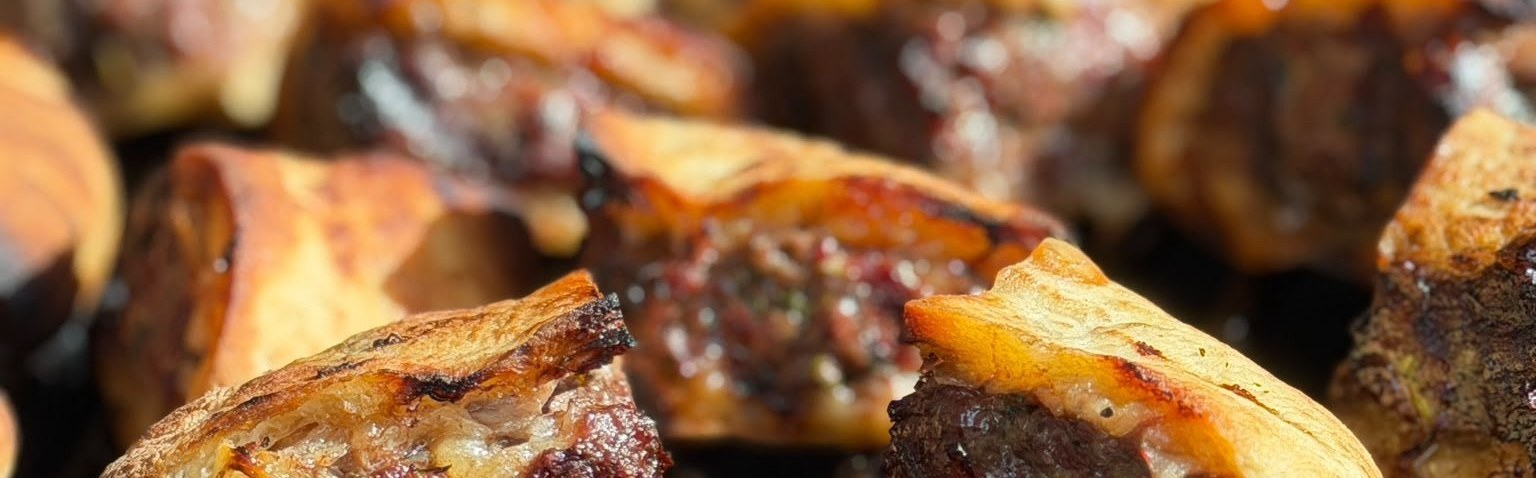
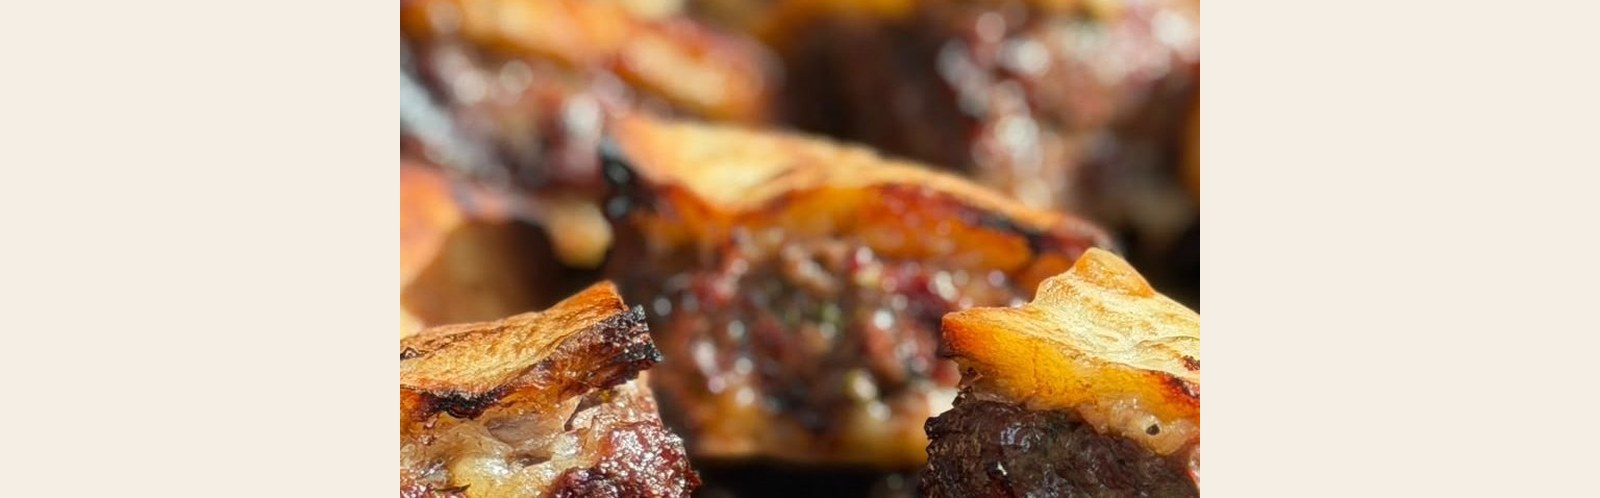
Update recipe: Arayes - 2026-10-07 19:58

diff --git a/cookbook/entrees/Arayes/Arayes_en.html b/cookbook/entrees/Arayes/Arayes_en.html
@@ -209,7 +209,7 @@ ol li .step-heading {
     </div>
   </div>
 
-  <div class="hero-wrapper"><div class="hero" role="img" aria-label="Arayes (Meat-Stuffed Pita)" style="background-image: url('Arayes.jpg'); background-position: center center; transform: scale(1.0); transform-origin: center center;"></div></div>
+  <div class="hero-wrapper"><div class="hero" role="img" aria-label="Arayes (Meat-Stuffed Pita)" style="background-image: url('Arayes.jpg'); background-position: bottom center; transform: scale(1.0); transform-origin: bottom center;"></div></div>
   <div class="header-bar"></div>
 
   <div class="header">

diff --git a/cookbook/entrees/Arayes/Arayes_he.html b/cookbook/entrees/Arayes/Arayes_he.html
@@ -209,7 +209,7 @@ ol li .step-heading {
     </div>
   </div>
 
-  <div class="hero-wrapper"><div class="hero" role="img" aria-label="עראייס" style="background-image: url('Arayes.jpg'); background-position: center center; transform: scale(1.0); transform-origin: center center;"></div></div>
+  <div class="hero-wrapper"><div class="hero" role="img" aria-label="עראייס" style="background-image: url('Arayes.jpg'); background-position: bottom center; transform: scale(1.0); transform-origin: bottom center;"></div></div>
   <div class="header-bar"></div>
 
   <div class="header">
